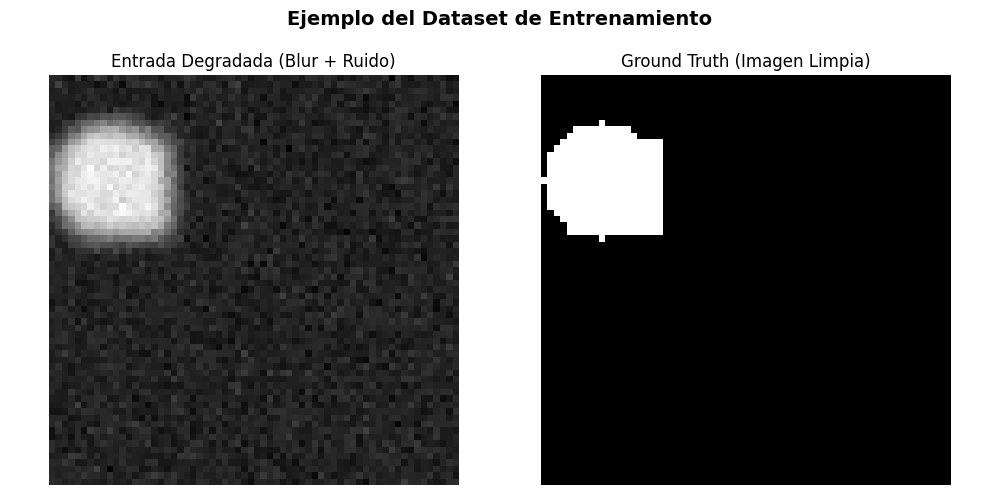
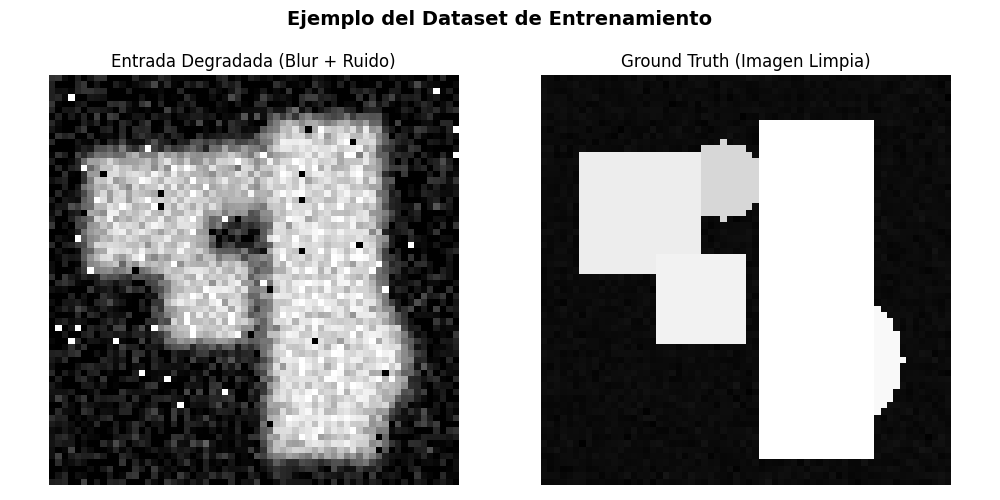
ruido y complejidad aumentada

diff --git a/unet_basica.py b/unet_basica.py
@@ -15,80 +15,89 @@ import torch.nn.functional as F # Importa funciones sin estado de PyTorch (como 
 # =====================================================================
 
 
-class ShapeDataset(Dataset): # Define una clase que hereda de Dataset de PyTorch para crear nuestros datos
-    def __init__(self, num_samples=100, image_size=64, num_shapes=2): # Método constructor que inicializa el dataset
-        self.num_samples = num_samples  # Define el número total de imágenes que tendrá el dataset
-        self.image_size = image_size    # Define el tamaño (ancho y alto) de cada imagen cuadrada (ej: 64x64)
-        self.num_shapes = num_shapes    # Define cuántas figuras geométricas habrá en cada imagen
+class ShapeDataset(Dataset):
+    def __init__(self, num_samples=100, image_size=64, min_shapes=3, max_shapes=6):
+        self.num_samples = num_samples
+        self.image_size = image_size
+        self.min_shapes = min_shapes
+        self.max_shapes = max_shapes
 
-    def __len__(self): # Método que PyTorch usa para saber el tamaño del dataset
-        return self.num_samples # Retorna el número total de muestras
+    def __len__(self):
+        return self.num_samples
 
-    def __getitem__(self, idx): # Método que PyTorch usa para obtener una imagen específica mediante su índice (idx)
-        # 1. Crear la imagen limpia (Ground Truth - x_t en el paper)
-        # Empezamos con un fondo negro (matriz de ceros) del tamaño especificado
-        clean_mask = np.zeros((self.image_size, self.image_size), dtype=np.float32) 
-
-        # Dibujar formas aleatorias
-        for _ in range(self.num_shapes): # Bucle para dibujar la cantidad de formas indicadas
-            shape_type = np.random.choice(['square', 'circle', 'triangle']) # Elige una forma al azar entre las tres opciones
-            if shape_type == 'square': # Si la forma elegida es un cuadrado...
-                size = np.random.randint(10, 25) # Elige un tamaño de lado aleatorio entre 10 y 25 píxeles
-                x = np.random.randint(0, self.image_size - size) # Elige una coordenada X aleatoria que no se salga de la imagen
-                y = np.random.randint(0, self.image_size - size) # Elige una coordenada Y aleatoria que no se salga de la imagen
-                clean_mask[y:y+size, x:x+size] = 1.0 # Rellena la zona del cuadrado con 1s (color blanco)
-            elif shape_type == 'circle': # Si la forma elegida es un círculo...
-                radius = np.random.randint(5, 15) # Elige un radio aleatorio entre 5 y 15 píxeles
-                cx = np.random.randint(radius, self.image_size - radius) # Elige centro X aleatorio sin salir del borde
-                cy = np.random.randint(radius, self.image_size - radius) # Elige centro Y aleatorio sin salir del borde
-                if cv2 is not None: # Si OpenCV está instalado...
-                    cv2.circle(clean_mask, (cx, cy), radius, 1.0, -1) # Dibuja un círculo relleno (grosor -1) (Circulo solido) de color blanco (1.0)
-                else: # Si no está instalado OpenCV, usa NumPy como plan B
-                    # Simple numpy fallback: draw a filled circle
-                    Y, X = np.ogrid[:self.image_size, :self.image_size] # Crea una cuadrícula de coordenadas Y y X
-                    dist = (X - cx) ** 2 + (Y - cy) ** 2 # Calcula la distancia al cuadrado desde cada píxel al centro
-                    mask = dist <= radius ** 2 # Crea una máscara booleana para los píxeles dentro del radio
-                    clean_mask[mask] = 1.0 # Pinta esos píxeles de blanco (1.0)
-            else:  # Si la forma es un triángulo (triangle)
-                pts = np.random.randint(0, self.image_size, (3, 2)) # Genera 3 puntos (vértices) aleatorios (X, Y)
-                if cv2 is not None: # Si OpenCV está instalado...
-                    cv2.fillPoly(clean_mask, [pts], 1.0) # Rellena el polígono formado por los 3 puntos con color blanco
-                else: # Si no hay OpenCV, usa NumPy (plan B)
-                    # Simple numpy fallback: draw bounding box of triangle
-                    min_x, min_y = pts.min(axis=0) # Encuentra la coordenada X e Y mínima de los 3 vértices
-                    max_x, max_y = pts.max(axis=0) # Encuentra la coordenada X e Y máxima
-                    clean_mask[min_y:max_y+1, min_x:max_x+1] = 1.0 # Dibuja un rectángulo que envuelve al triángulo (aproximación)
-
-        # Añadir canal de profundidad (PyTorch espera [Canales, Alto, Ancho])
-        clean_mask = clean_mask[np.newaxis, :, :] # Añade una dimensión extra al principio. Pasa de (64, 64) a (1, 64, 64)
-
-        # Convertimos la matriz de NumPy a un Tensor de PyTorch (el formato que usa la red neuronal)
-        clean_tensor = torch.from_numpy(clean_mask)  # [1, H, W] (el 1 es de los canales de color, en este caso solo uno porque es blanco y negro)
+    def __getitem__(self, idx):
+        # 1. Ground Truth con variabilidad (x_t)
+        clean_mask = np.zeros((self.image_size, self.image_size), dtype=np.float32)
         
-        # 2. Simular el proceso de degradación: y = k * x + n
-        # a) Desenfoque (Convolución con kernel k)
-        # Creamos un kernel Gaussiano de 7x7 para emborronar la imagen
-        k_size = 7 # Tamaño del kernel (ventana) que emborrona
-        sigma = 2.0 # Desviación estándar (qué tan fuerte es el desenfoque)
-        coords = torch.arange(k_size) - (k_size - 1) / 2.0 # Crea un vector centrado en 0 (ej: -3, -2, -1, 0, 1, 2, 3)
-        g_1d = torch.exp(-coords.pow(2) / (2 * sigma**2)) # Aplica la fórmula de la campana de Gauss en 1D
-        g_2d = g_1d.view(-1, 1) * g_1d.view(1, -1) # Multiplica el vector 1D consigo mismo transpuesto para crear una matriz 2D
-        kernel = (g_2d / g_2d.sum()).view(1, 1, k_size, k_size) # Normaliza para que sume 1 y le da la forma (Canal_out, Canal_in, Alto, Ancho)
+        # Añadir un fondo gris tenue con ruido para simular texturas de fondo (como en microscopía)
+        background_noise = np.random.normal(0.05, 0.01, (self.image_size, self.image_size)).astype(np.float32)
+        clean_mask = np.clip(clean_mask + background_noise, 0, 1)
 
-        # Aplicamos la convolución (desenfoque) usando el kernel Gaussiano
-        # unsqueeze(0) añade la dimensión temporal de "batch" (lote) que exige F.conv2d: [1, 1, 64, 64]
-        blurred = F.conv2d(clean_tensor.unsqueeze(0), kernel, padding=k_size//2) # padding mantiene el tamaño original de la imagen
-        blurred = blurred.squeeze(0) # Quitamos la dimensión de lote extra añadida antes
-
-        # b) Ruido Aditivo (n)
-        # Generamos ruido gaussiano aleatorio con la misma forma que la imagen emborronada
-        noise = torch.randn_like(blurred) * 0.05 # torch.randn_like crea valores normales estándar; multiplicamos por 0.05 para bajar la intensidad
+        num_shapes = np.random.randint(self.min_shapes, self.max_shapes + 1)
         
-        # Imagen observada con degradación (x_o en el paper), sumando imagen borrosa + ruido
-        observed_image = blurred + noise 
+        for _ in range(num_shapes):
+            shape_type = np.random.choice(['square', 'circle', 'triangle'])
+            intensity = np.random.uniform(0.5, 0.9) # Intensidades variables
+            
+            if shape_type == 'square':
+                size = np.random.randint(10, 20)
+                x, y = np.random.randint(0, self.image_size - size, 2)
+                # Mezclamos la forma con el fondo usando el máximo para superposición
+                clean_mask[y:y+size, x:x+size] = np.maximum(clean_mask[y:y+size, x:x+size], intensity)
+            
+            elif shape_type == 'circle':
+                radius = np.random.randint(6, 14)
+                cx, cy = np.random.randint(radius, self.image_size - radius, 2)
+                if cv2 is not None:
+                    temp_mask = np.zeros_like(clean_mask)
+                    cv2.circle(temp_mask, (cx, cy), radius, float(intensity), -1)
+                    clean_mask = np.maximum(clean_mask, temp_mask)
+                else:
+                    Y, X = np.ogrid[:self.image_size, :self.image_size]
+                    dist = (X - cx) ** 2 + (Y - cy) ** 2
+                    mask = dist <= radius ** 2
+                    clean_mask[mask] = np.maximum(clean_mask[mask], intensity)
+            
+            else: # Triangle
+                pts = np.random.randint(0, self.image_size, (3, 2))
+                if cv2 is not None:
+                    temp_mask = np.zeros_like(clean_mask)
+                    cv2.fillPoly(temp_mask, [pts], float(intensity))
+                    clean_mask = np.maximum(clean_mask, temp_mask)
+                else:
+                    min_x, min_y = pts.min(axis=0)
+                    max_x, max_y = pts.max(axis=0)
+                    clean_mask[min_y:max_y+1, min_x:max_x+1] = np.maximum(clean_mask[min_y:max_y+1, min_x:max_x+1], intensity)
 
-        # Retornamos la imagen degradada (entrada de la red) y la limpia (objetivo a alcanzar)
+        # Convertir a tensor [1, H, W]
+        clean_tensor = torch.from_numpy(clean_mask).unsqueeze(0)
+        
+        # 2. Degradación más agresiva (y = k * x + n)
+        # a) Desenfoque Gaussiano variable
+        k_size = 9 
+        sigma = np.random.uniform(1.2, 2.5) # Cada imagen tiene un desenfoque distinto
+        coords = torch.arange(k_size) - (k_size - 1) / 2.0
+        g_1d = torch.exp(-coords.pow(2) / (2 * sigma**2))
+        kernel = (g_1d.view(-1, 1) * g_1d.view(1, -1))
+        kernel = (kernel / kernel.sum()).view(1, 1, k_size, k_size)
+
+        blurred = F.conv2d(clean_tensor.unsqueeze(0), kernel, padding=k_size//2).squeeze(0)
+
+        # b) Ruido Aditivo Gaussiano fuerte
+        noise_std = 0.1 # Aumentamos la desviación estándar del ruido
+        noise = torch.randn_like(blurred) * noise_std
+        
+        # c) Ruido "Sal y Pimienta" (Salt & Pepper)
+        observed_image = blurred + noise
+        sp_noise = torch.rand_like(observed_image)
+        observed_image[sp_noise < 0.01] = 0.0 # 1% de píxeles negros
+        observed_image[sp_noise > 0.99] = 1.0 # 1% de píxeles blancos
+
+        # Aseguramos que los valores sigan entre 0 y 1
+        observed_image = torch.clamp(observed_image, 0, 1)
+
         return observed_image, clean_tensor 
+ 
 
 
 # =====================================================================
@@ -222,10 +231,9 @@ def visualize_dataset_sample(dataset): # Función que muestra un ejemplo del dat
 
 def train_model(): # Función que controla todo el ciclo de aprendizaje de la red
     print("Preparando datos...", flush=True) # Imprime un mensaje en consola
-    # Creamos un dataset de 200 imágenes, de 64x64 píxeles cada una
-    dataset = ShapeDataset(num_samples=200, image_size=64)
+    # Creamos un dataset de 400 imágenes (antes 200) para manejar la mayor dificultad
+    dataset = ShapeDataset(num_samples=400, image_size=64, min_shapes=3, max_shapes=6)
     # DataLoader envuelve el dataset para entregar las imágenes a la red en "lotes" (batches) de 8 en 8
-    # shuffle=True hace que el orden sea aleatorio en cada época para evitar que la red memorice el orden
     dataloader = DataLoader(dataset, batch_size=8, shuffle=True) 
 
     # Mostrar un ejemplo del dataset antes de entrenar
@@ -240,7 +248,7 @@ def train_model(): # Función que controla todo el ciclo de aprendizaje de la re
     # Optimizador Adam: es el "profesor" que cambia los pesos de la red basándose en el error (learning rate de 0.005) (lr es que tanto se equivoca al ajustar los pesos)
     optimizer = optim.Adam(model.parameters(), lr=0.005) 
     
-    epochs = 3 # Número de veces que la red verá el conjunto completo de datos (épocas)
+    epochs = 5 # Aumentamos las épocas para que aprenda mejor los patrones difíciles
     print("Iniciando entrenamiento (esto puede tomar unos segundos)...", flush=True)
     
     total_batches = len(dataloader) # Cantidad total de lotes (ej: 200/8 = 25 lotes por época)
@@ -328,3 +336,4 @@ def visualize_results(model, dataset, num_images=5): # Función para probar y ve
 if __name__ == "__main__": # Este bloque solo se ejecuta si corremos este archivo directamente (no si lo importamos en otro archivo)
     trained_model, eval_dataset = train_model() # Ejecuta el entrenamiento y guarda el modelo y los datos
     visualize_results(trained_model, eval_dataset, num_images=3) # Ejecuta la visualización final con 3 ejemplos
+    
